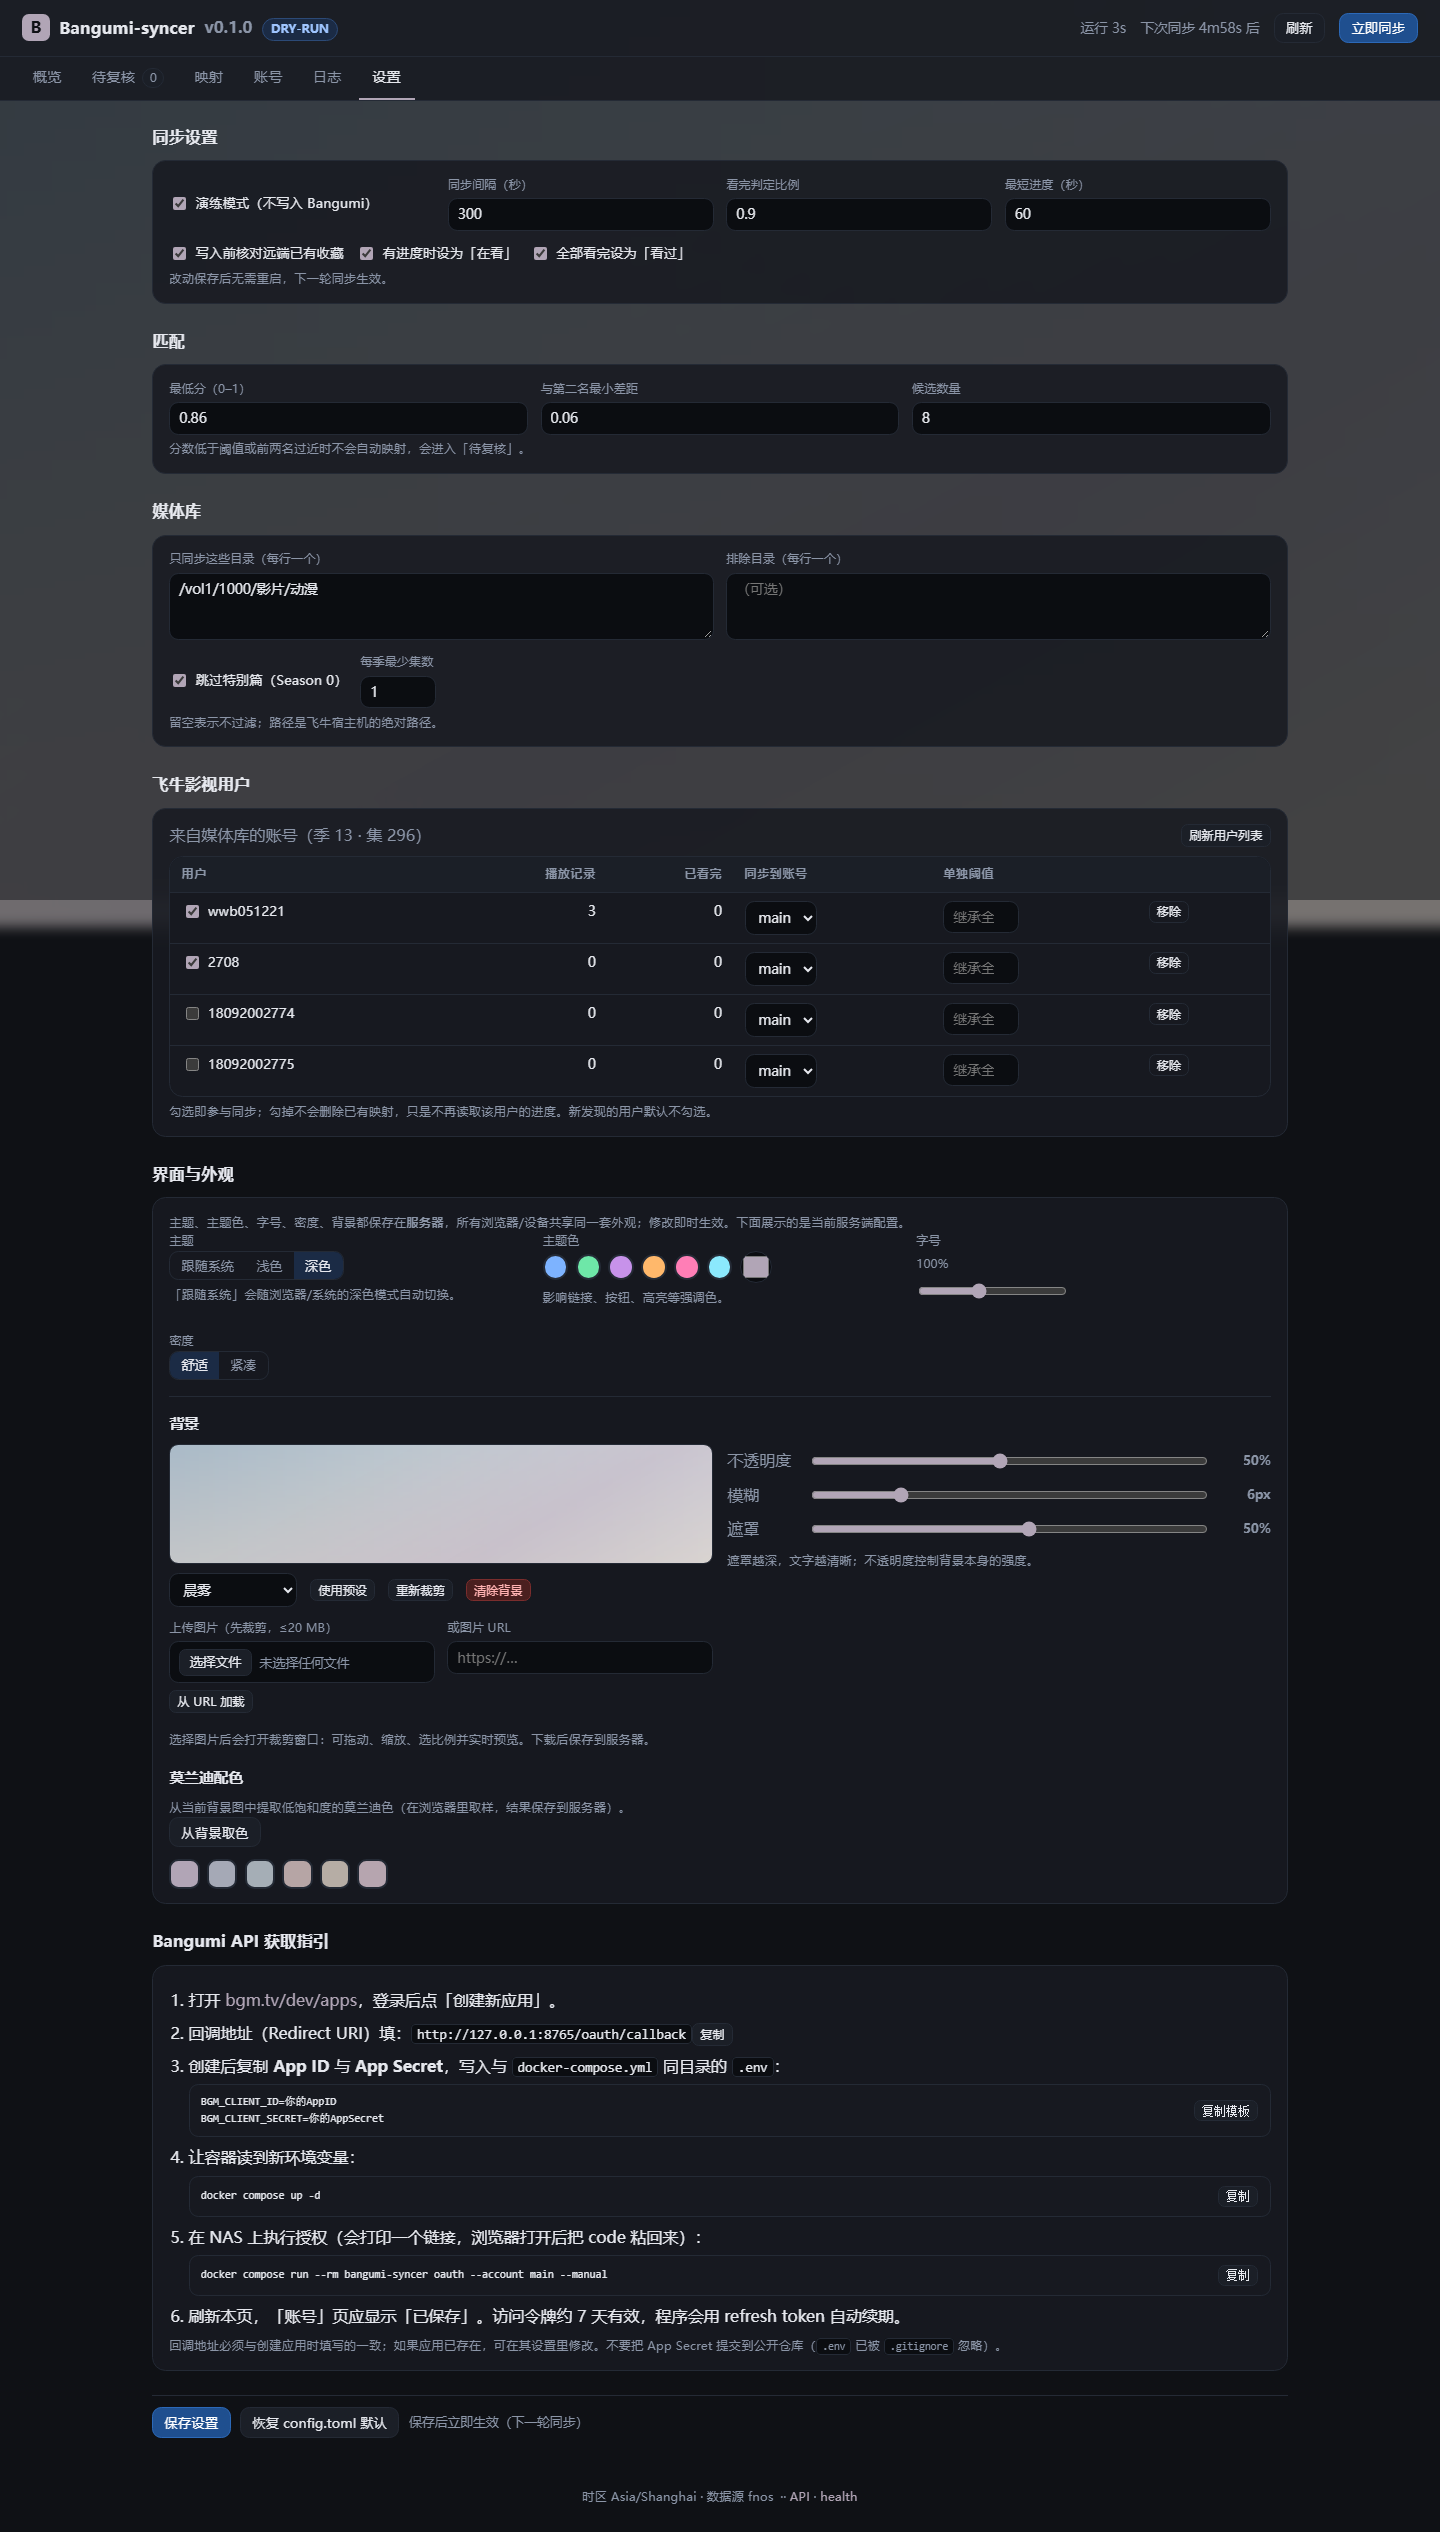
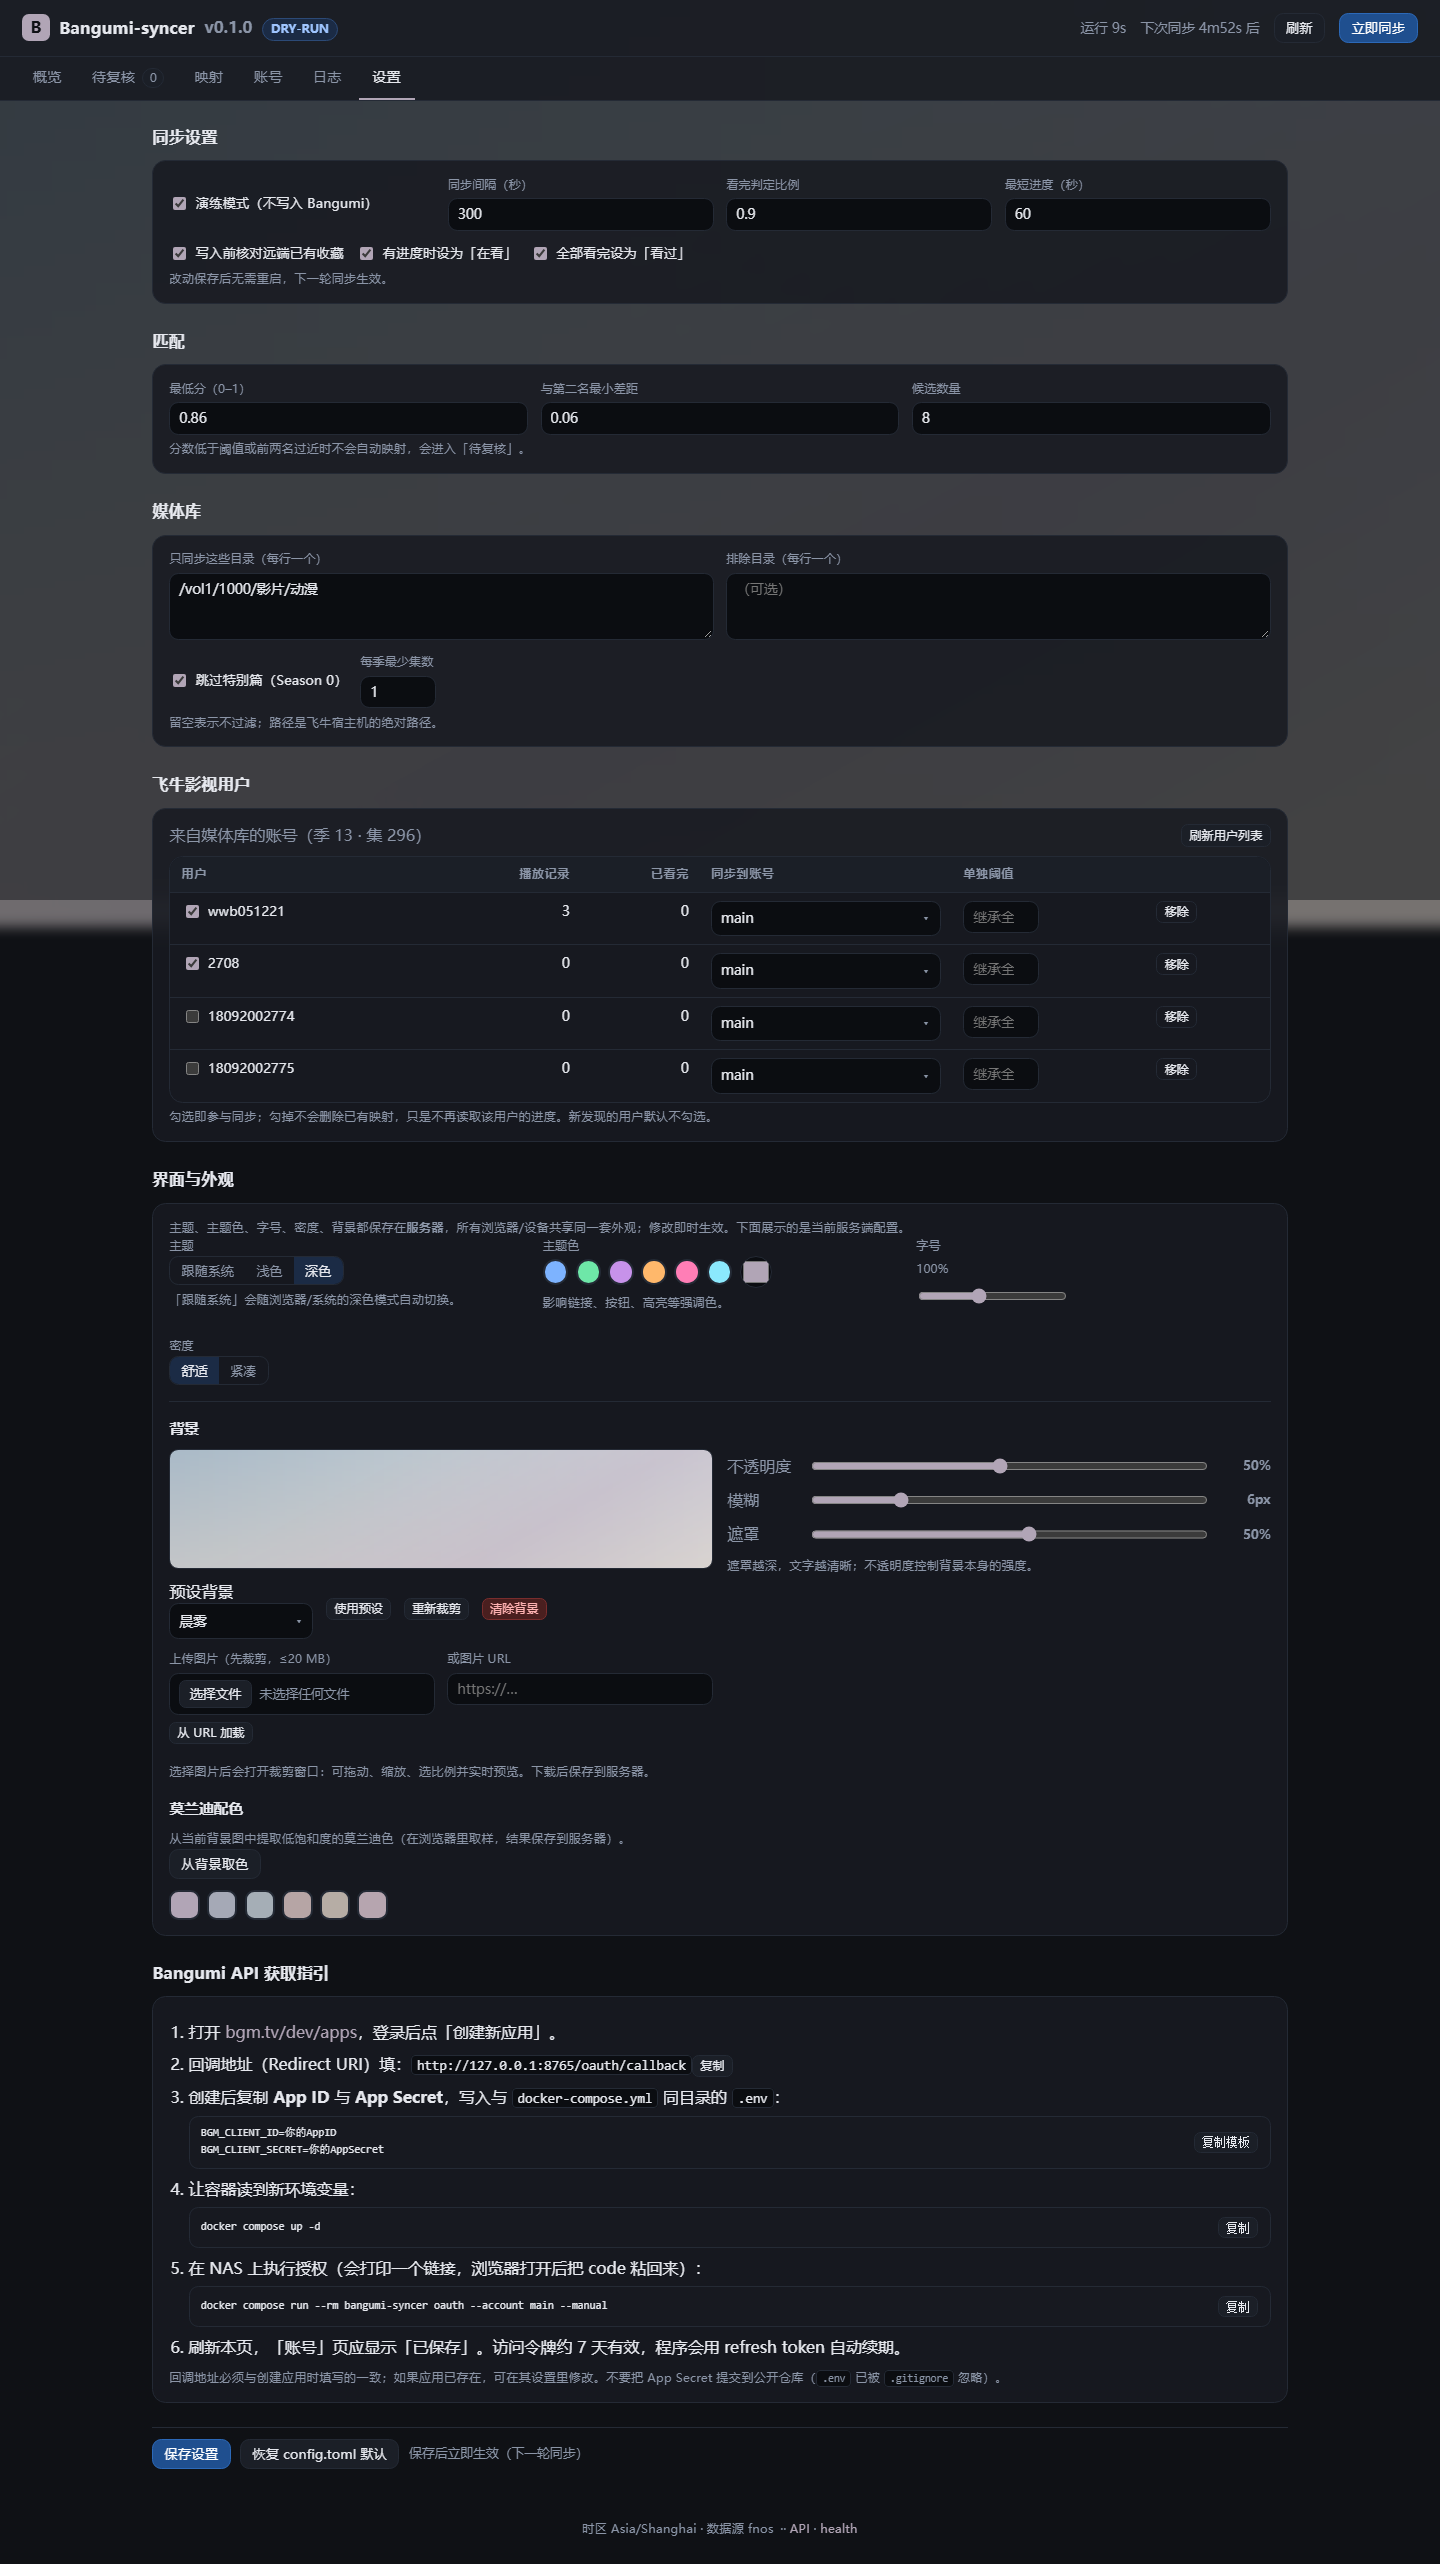
docs: 移动端下拉深色适配验证与截图
- 验证记录新增移动端下拉检查（无原生 select、弹层不被表格裁剪、深色对比度、Esc/滚动关闭）
- README 增加移动端深色下拉截图；CHANGELOG 记录修复
- .dev 留存 ui-verify-select.js

diff --git a/docs/verification.md b/docs/verification.md
@@ -118,14 +118,30 @@
 表格此前因 `border-collapse: collapse` 无法显示圆角，现改为容器承担边框与裁剪，
 `table` 只保留内容；开启自定义背景时容器使用半透明毛玻璃，表格背景透明，圆角处不再出现直角溢出。
 
-## 6. 快照健壮性（实机发现）
+## 6. 移动端下拉与深色适配
+
+Android Firefox 的原生 `<select>` 弹层由系统绘制，不跟随页面深色配色：白底 + 继承的浅色文字，
+选项几乎不可见（实机截图确认）。现改为自绘 `.select`（按钮 + 列表 + 隐藏 input，id/value 接口不变）：
+
+| 检查 | 结果 |
+| --- | --- |
+| 原生 `<select>` 数量 | 0（映射账号、用户账号、背景预设均已替换） |
+| 弹层定位 | 挂到 `<body>`，`position:fixed`，不被 `.table-wrap` 的 `overflow`/`backdrop-filter` 裁剪 |
+| 深色配色 | 背景 `rgb(23,26,33)`，文字 `rgb(230,232,238)`，对比度检查通过 |
+| 视口内 | 390×844 下弹层完全位于视口内 |
+| 选择行为 | 隐藏 input 与按钮文案同步更新；表格内下拉同样可用 |
+| 关闭 | 点外部、Esc、滚动（打开后 350ms 内的轻微滚动不触发） |
+| 背景预设 | 选择「暮色」后 `value=dusk`、文案「暮色」 |
+| 移动端表单 | 字段与按钮整行排布，无窄输入框 |
+
+## 7. 快照健壮性（实机发现）
 
 飞牛在 01:45 / 01:47 重写 `trimmedia.db` 时，只读 `VACUUM INTO` 会得到**合法但无表**的空库，
 `quick_check` 仍返回 ok，旧版本会因此整轮失败。现在快照后会校验必需表：不完整时保留上一份
 可用快照并告警（日志 `keeping the previous snapshot`），同步照常完成；只有完全没有旧快照时才
 报错并在下一轮重试。已补 3 个回归测试。
 
-## 7. 未验证 / 已知限制
+## 8. 未验证 / 已知限制
 
 | 项 | 说明 |
 | --- | --- |
@@ -135,7 +151,7 @@
 | 飞牛版本差异 | 仅 1.2.1102 实测；schema 探测 + 可覆盖 SQL 用于兜底 |
 | Windows 容器 | 不支持（镜像基于 Linux） |
 
-## 8. 复现步骤
+## 9. 复现步骤
 
 ```bash
 # 本机：离线测试

diff --git a/CHANGELOG.md b/CHANGELOG.md
@@ -30,6 +30,12 @@
 
 ### 修复
 
+- **Android Firefox 深色下下拉选项不可见**：原生 `<select>` 弹层由系统绘制（白底），文字继承浅色
+  导致几乎不可读。改为自绘下拉组件（按钮 + 列表 + 隐藏 input，保持原 id/value 接口），
+  弹层挂到 `<body>` 并用 `fixed` 定位，避免表格容器的 `overflow`/`backdrop-filter` 裁剪；
+  支持点外部/Esc/滚动关闭，选项带 `role` 与 `aria-selected`。
+- **移动端表单过窄**：≤720px 时表单字段与按钮改为整行排布。
+
 - **UI 圆角不统一 / 表格圆角不生效**：引入 `--radius-xs/sm/md/lg/xl/pill` 六档 token（密度切换时同步缩放），
   卡片、弹窗、输入框、按钮、分段控件、预览、代码块、Toast 全部改用 token；表格圆角改由
   `.table-wrap` 承担（`border-collapse` 下 `table` 的 `border-radius` 无效），并去掉 table 自身边框，

diff --git a/README.zh-CN.md b/README.zh-CN.md
@@ -145,6 +145,10 @@ docker compose logs -f
 
 <img src="docs/screenshots/mobile-settings-dark.png" width="320" alt="移动端设置页">
 
+移动端下拉在深色下使用自绘弹层（不再出现系统白底、文字不可见）：
+
+<img src="docs/screenshots/mobile-select-dark.png" width="330" alt="移动端深色下拉">
+
 上传背景时的裁剪窗口（拖动 / 缩放 / 比例 / 实时预览）：
 
 ![背景裁剪](docs/screenshots/crop-modal.png)
